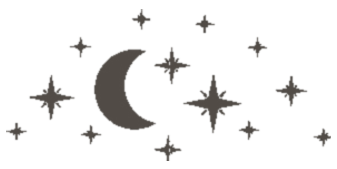
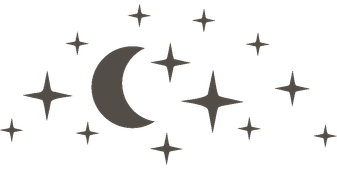
Kolo Karmy: powieksza cyfry numerologii, podmienia gwiazdy astrologii
Numerologia: pudelko piktogramu powiekszone z 155x150 do 180x195 (zdjecie
przesuniete w gore/w lewo, sprawdzone pod katem kolizji z klepsydra "kiedy"
i zewnetrznym pierscieniem) — nowa ikona z 9 cyframi w starym, malym
pudelku miala duzo pustej przestrzeni wokol. fill-numerologia-gold.png
przebudowany pod nowy rozmiar.

Astrologia: moonstars-gold.png / moonstars-taupe.png wyciete na nowo z
astrologia-nowa.jpg (usuniete drobne "iskierki" miedzy gwiazdami, ktore
byly w starej wersji) — rozmiar bez zmian (337x169, ten sam box).

diff --git a/components/KoloKarmy.tsx b/components/KoloKarmy.tsx
@@ -101,7 +101,9 @@ const SATELITY_BAZA = [
 // przez <MoonStars> (osobny puls, patrz aktywny === "astrologia" niżej).
 const PIKTOGRAMY_PULSUJACE = [
   { id: "hiromancja", box: [340, 385, 490, 555] as const },
-  { id: "numerologia", box: [708, 387, 863, 537] as const },
+  // Powiekszone (2026-09-26): nowa ikona ma 9 cyfr rozlozonych szerzej niz
+  // stara (4 cyfry) — mniejsze pudelko zostawialo duzo pustego miejsca.
+  { id: "numerologia", box: [700, 375, 880, 570] as const },
 ];
 
 function pctX(v: number) { return `${(v / IMG_W) * 100}%`; }
